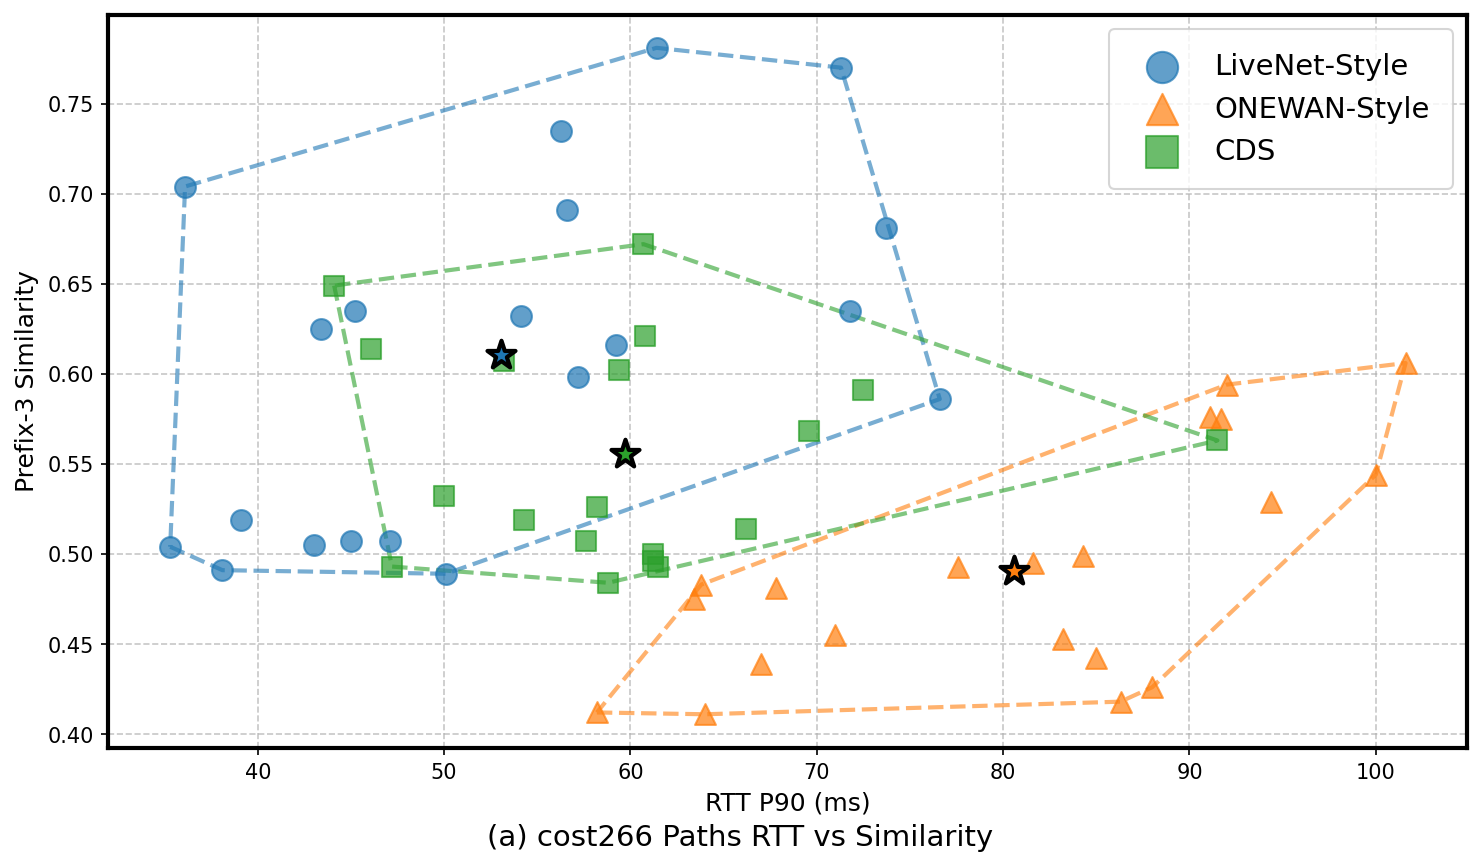
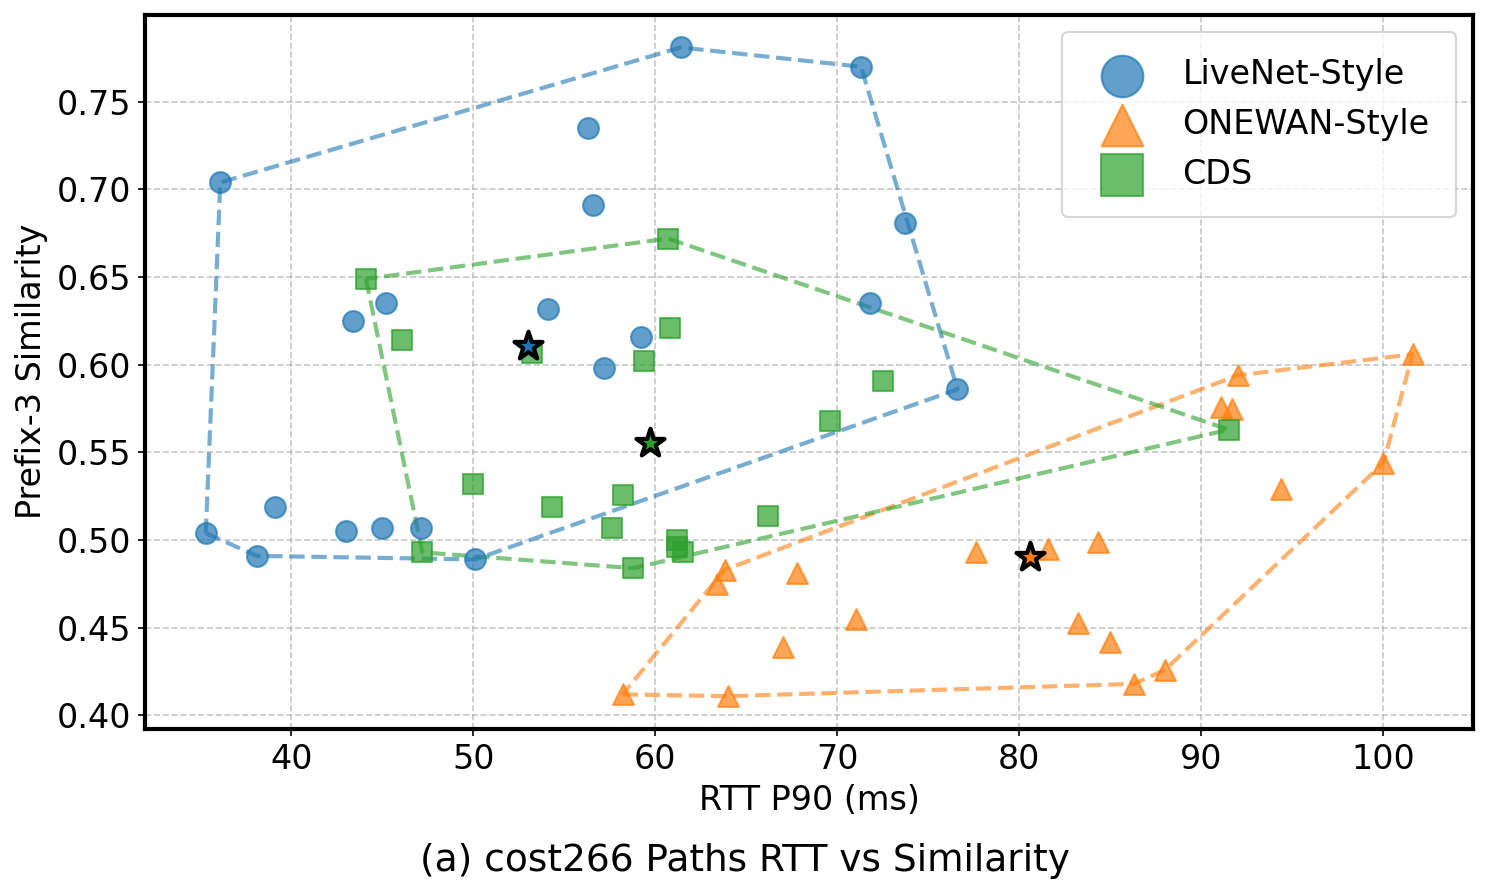
update

diff --git a/control-plane/routing/core-domain/evaluation/plot_scatter_rtt_similarity_janos.py b/control-plane/routing/core-domain/evaluation/plot_scatter_rtt_similarity_janos.py
@@ -67,9 +67,9 @@ def cross(o, a, b):
     return (a[0] - o[0]) * (b[1] - o[1]) - (a[1] - o[1]) * (b[0] - o[0])
 
 # Parse all three result files
-lifestyle_data = parse_results('evaluation/janos-us-ca_livenet_test_results.txt')
-onewan_data = parse_results('evaluation/janos-us-ca_onewan_multi_results.txt')
-carousel_data = parse_results('evaluation/janos-us-ca_carousel_greed_results.txt')
+lifestyle_data = parse_results('janos-us-ca_livenet_test_results.txt')
+onewan_data = parse_results('janos-us-ca_onewan_multi_results.txt')
+carousel_data = parse_results('janos-us-ca_carousel_greed_results.txt')
 
 # Set font to support Chinese (fallback to DejaVu Sans)
 plt.rcParams['font.sans-serif'] = ['DejaVu Sans']
@@ -103,8 +103,11 @@ for alg in algorithms:
     plot_envelope(ax, points, alg['color'])
 
 # Add labels
-ax.set_xlabel('RTT P90 (ms)', fontsize=12)
-ax.set_ylabel('Prefix-3 Similarity', fontsize=12)
+ax.set_xlabel('RTT P90 (ms)', fontsize=16)
+ax.set_ylabel('Prefix-3 Similarity', fontsize=16)
+
+# Set tick label font size
+ax.tick_params(axis='both', labelsize=16)
 
 # Thicken outer border
 for spine in ax.spines.values():
@@ -114,14 +117,14 @@ for spine in ax.spines.values():
 ax.grid(True, linestyle='--', alpha=0.7)
 
 # Add legend
-ax.legend(loc='upper right', fontsize=14, markerscale=1.5, handletextpad=0.8, borderpad=0.8)
+ax.legend(loc='upper right', fontsize=16, markerscale=2.0, handletextpad=0.8, borderpad=0.8)
 
 
-plt.suptitle('(b) janos-us-ca Paths RTT vs Similarity', fontsize=14, y=0.02)
+plt.suptitle('(b) janos-us-ca Paths RTT vs Similarity', fontsize=18, y=-0.01)
 plt.tight_layout()
-plt.savefig('evaluation/scatter_rtt_p90_vs_similarity_janos-us-ca.pdf', dpi=300, bbox_inches='tight')
-plt.savefig('evaluation/scatter_rtt_p90_vs_similarity_janos-us-ca.png', dpi=150, bbox_inches='tight')
-print("Scatter plot saved as evaluation/scatter_rtt_p90_vs_similarity_janos-us-ca.png")
+plt.savefig('scatter_rtt_p90_vs_similarity_janos-us-ca.pdf', dpi=300, bbox_inches='tight')
+plt.savefig('scatter_rtt_p90_vs_similarity_janos-us-ca.png', dpi=150, bbox_inches='tight')
+print("Scatter plot saved as scatter_rtt_p90_vs_similarity_janos-us-ca.png")
 
 # Print summary statistics
 print("\n=== Algorithm Comparison Summary ===")

diff --git a/control-plane/routing/core-domain/evaluation/plot_scatter_rtt_similarity_v2.py b/control-plane/routing/core-domain/evaluation/plot_scatter_rtt_similarity_v2.py
@@ -105,8 +105,11 @@ for alg in algorithms:
     plot_envelope(ax, points, alg['color'])
 
 # Add labels
-ax.set_xlabel('RTT P90 (ms)', fontsize=12)
-ax.set_ylabel('Prefix-3 Similarity', fontsize=12)
+ax.set_xlabel('RTT P90 (ms)', fontsize=16)
+ax.set_ylabel('Prefix-3 Similarity', fontsize=16)
+
+# Set tick label font size
+ax.tick_params(axis='both', labelsize=16)
 
 # Thicken outer border
 for spine in ax.spines.values():
@@ -116,11 +119,11 @@ for spine in ax.spines.values():
 ax.grid(True, linestyle='--', alpha=0.7)
 
 # Add legend
-ax.legend(loc='upper right', fontsize=14, markerscale=1.5, handletextpad=0.8, borderpad=0.8)
+ax.legend(loc='upper right', fontsize=16, markerscale=2.0, handletextpad=0.8, borderpad=0.8)
 
 
 
-plt.suptitle('(a) cost266 Paths RTT vs Similarity', fontsize=14, y=0.02)
+plt.suptitle('(a) cost266 Paths RTT vs Similarity', fontsize=18, y=-0.01)
 plt.tight_layout()
 plt.savefig(os.path.join(_base, 'scatter_rtt_p90_vs_similarity.pdf'), dpi=300, bbox_inches='tight')
 plt.savefig(os.path.join(_base, 'scatter_rtt_p90_vs_similarity.png'), dpi=150, bbox_inches='tight')

diff --git a/control-plane/routing/core-domain/evaluation/run_carousel-greed-evaluation.py b/control-plane/routing/core-domain/evaluation/run_carousel-greed-evaluation.py
@@ -10,7 +10,7 @@ from itertools import combinations
 if len(sys.argv) > 1:
     log_file = sys.argv[1]
 else:
-    log_file = "janos-us-ca_carousel_greed_test.log"
+    log_file = "cost266_carousel_greed_test.log"
 
 # Path pattern for Carousel Greed algorithm
 path_pattern = re.compile(